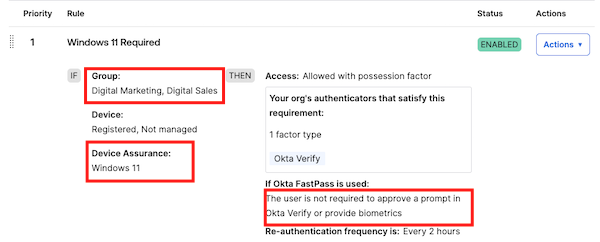
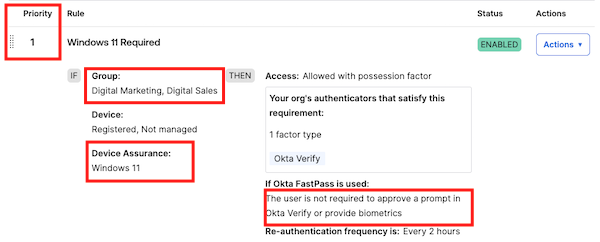
Feedback fixes for 1 - 3

Changed region(s): [[0.0, 0.0, 0.12, 0.2603]]

diff --git a/03-o365-integration.md b/03-o365-integration.md
@@ -89,11 +89,11 @@ In this section you will enable provisioning to Microsoft 365. This will include
 Follow these steps to enable provisioning:
 
 1. On the **Provisioning** tab, under **Settings**, select **To App**
-2. Click **Edit** to set the options for provisioning from Okta  to Office 365.
+2. Click **Edit** to set the options for provisioning from Okta to Office 365.
 
     ![alt_text](images/011/app_o365_to_app_600.png "w600")
 
-3. For **Office 365 Provisioning Type** select **Universal Sync**.
+3. For **Office 365 Provisioning Type**  select **Universal Sync**.
 4. For **Create Users**, select **Enable**.
 5. For **Update User Attributes**, select **Enable**.
 6. For **Deactivate Users**, select **Enable**.
@@ -111,31 +111,13 @@ When assigning users to an app, it's common to assign a group to an app and then
 
 When assigning a group to an app, you can specify values for app attributes. These will override any mapping for those attributes in the app definition. If you don't specify any value for an attribute, the mapping in the app definition will be applied instead.
 
-## Create a Group
-
-You will now create a group that will be assigned the Microsoft
-Office 365 app. Alternatively, you could assign the Office 365 app to existing groups.
-
-1. In the Admin Console select **Directory** > **Groups**.
-2. Click **Add group**.
-3. Set the **Name** to  **Office 365 Users**.
-4. Set the **Description** to **Office 365 Users**
-5. Click **Save**.
-
-    ![alt_text](images/009/image033.png "image_tooltip")
-
 ## Assign Group to Application
 
-You can assign a group to an app by either assigning the group within the app definition or by adding the app to the group definition. In this case you will add the app from the group definition.
+You can assign a group to an app by assigning the group within the app definition.
 
-1. In the Admin Console select **Directory** > **Groups**.
-2. Select the **Office 365 Users** group.
-3. Select the **Applications** tab, and then click **Assign applications**.
-4. Find the the **Microsoft Office 365** app and click **Assign**.
-
-    ![alt_text](images/009/image035_400.png "image_tooltip")
-
-5. In the list of Licenses, find and select **Microsoft 365 E5 Developer (Without Windows and Audio Conferencing) - Office 365 ProPlus**.
+1. On the **Assignments** tab, click **Assign**, and then select **Assign to Groups**.
+1. Find the the **App-Office365-ProPlus** group, and then click **Assign**.
+1. In the list of Licenses, find and select **Microsoft 365 E5 Developer (Without Windows and Audio Conferencing) - Office 365 ProPlus**.
 
     >**Hint:**Command-F (on Mac) or Win+F ( on Windows) will provide you a search bar into which you can type *proplus*
 
@@ -144,31 +126,31 @@ You can assign a group to an app by either assigning the group within the app de
 6. Scroll to the bottom of the page and click **Save and Go Back**.
 7. Click **Done**.
 
-The application is now assigned to the **O365 Users** group.
+The application is now assigned to the **App-Office365-ProPlus** group.
 
 ## Assign User to Group
 
-You will now assign the new employee to the *O365 Users* group. This will cause the user to be assigned the Microsoft Office 365 app which, in turn, will trigger provisioning of an account.
+You will now assign the new employee to the *App-Office365-ProPlus* group. This will cause the user to be assigned the Microsoft Office 365 app which, in turn, will trigger provisioning of an account.
 
 1. In the Admin Console select **Directory** > **Groups**.
-2. Select the **Office 365 Users** group.
-3. Select the **People** tab within the **Office 365Users** group.
+2. Select the **App-Office365-ProPlus** group.
+3. Select the **People** tab within the **App-Office365-ProPlus** group.
 4. Click **Assign people**.
 
-    ![alt_text](images/009/image040_600.png "image_tooltip")
+    ![alt_text](images/009/image040_600.png "assign people")
 
 5. Click **+** for the **New Employee** to assign them to the group.
 
-    ![alt_text](/images/011/group_assign_user_600.png "image_tooltip")
+    ![alt_text](/images/011/group_assign_user_600.png "assign user")
 
 The **+** icon will change to say **Assigned**.
 6. Click **Done**.
 
 The user is now assigned to the group and will be assigned to the Microsoft Office 365 app using the attribute mapping associated with the group assignment.
 
-## Test single sign-on
+## Verify SSO for New Employee to Office 365
 
-You can now test single sign-on to Microsoft 365 for your new employee.
+In your Virtual Desktop, test single sign-on to Microsoft Office 365 for your new employee.
 
 1. Open a new browser window that is not signed in to Okta or Microsoft.
 
@@ -176,14 +158,17 @@ You can now test single sign-on to Microsoft 365 for your new employee.
 
 3. Authenticate as the new employee. For example *<flynn.rider@04.mywiclab.com>*
 
+4. Click the **Microsoft Office 365 Word Online** app.
+
     ![alt_text](images/009/image043_600.png "image_tooltip")
 
-4. Click the **Microsoft Office 365 Word Online** app.
 5. Click **Yes** to stay signed in.
 6. In the top-right corner of the page, click the identity icon.
-7. Click **Sign out** to clear the session, and then close the browser.
+7. Click **Sign out** to clear the session.
 
     ![alt_text](images/009/image045_600.png "image_tooltip")
+
+8. Sign out the new employee from Okta
 
 ## Conclusion
 

diff --git a/04-security.md b/04-security.md
@@ -1,8 +1,8 @@
 In this lab, you will unlock the combined power of Okta Verify and FastPass. You will enable an experience where passwordless authentication becomes an integral part of an employee’s workday, boosting employee productivity without the common password pitfalls. Not only will you discover an enhanced security posture resistant to phishing threats, but you’ll also appreciate the inherent protection it offers, sometimes even against our own human errors.
 
-## Setup Okta Verify and Okta FastPass
+## Setup Okta FastPass on the Virtual Machine
 
->**Tip:** You may want paste your Okta tenant url into Notepad++ for easy copying and pasting in this lab.
+>**Tip:** You may want paste your Okta tenant url into Notepad for easy copying and pasting in this lab.
 
 ### Download Okta Verify on your Virtual Machine
 
@@ -14,7 +14,7 @@ In this lab, you will unlock the combined power of Okta Verify and FastPass. You
 
 ### Install Okta Verify on your Virtual Machine
 
-1. Open the downloaded **Okta Verify Setup** executable file.
+1. Open the **Okta Verify Setup** executable located in the Download folder shortcut on the desktop.
 2. In the Okta Verify installation window, select **I agree to the License terms and conditions**, and then click **Install**.
     Wait for confirmation saying that Okta Verify was successfully installed.
 3. Click **Finish**.
@@ -48,9 +48,9 @@ Upon successful authentication, the new employee account will be added to the Ok
 This will display the Okta Verify options.
 
 1. For **Okta FastPass** select **Show the "Sign in with Okta FastPass" button**.
-1. Scroll down and click **Save**.
 
-![alt_text](images/011/okta_verify_show_fastpass_button_r144_800.png "r 144 w 800")
+    ![alt_text](images/011/okta_verify_show_fastpass_button_600.png "Show FastPass button")
+1. Scroll down and click **Save**.
 
 ### Add a rule to the Standard Security Apps policy
 
@@ -77,6 +77,7 @@ This will display the Okta Verify options.
     |If Okta FastPass is used |**The user is not required to approve a prompt in Okta Verify or provide biometrics**|
 
 7. Click **Save**.
+8. Drag the **Okta FastPass** rule up to make **Priority 1** in the list of rules for the policy.
 
 ### Experience an Employee Passwordless Login
 
@@ -121,10 +122,9 @@ With device assurance policies you can check security-related device attributes 
     |:-----|:-----|
     |User must authenticate with:| **Possession factor**|
     |If Okta FastPass is used |**The user is not required to approve a prompt in Okta Verify or provide biometrics**|
-
 1. Click **Save**.
-
- ![alt_text](images/011/auth_policy_rule_windows11_saved_600.png "r 144 w 600")
+1. Drag the **Okta FastPass** rule up to make **Priority 1** in the list of rules for the policy.
+![alt_text](images/011/auth_policy_rule_windows11_saved_600.png "r 144 w 600")
 
 ### Assign High Security Apps Policy to Marketo
 
@@ -152,7 +152,9 @@ The lab Virtual Desktops are running Windows 10.
 
     ![alt_text](images/011/auth_policy_switch_marketo_600.png "r 144 w 600")
 
-Your new employee will now be able to sign in to Marketo from the Virtual Desktop.
+Your new employee will now be able to sign in to ""Marketo"" app from the Virtual Desktop.
+
+>**Note:** With the exception of BambooHR and Office 365, the other apps in this lab are Bookmark apps. Bookmark apps are used to direct users to a specific web page using Okta applications.
 
 ### Enable Okta ThreatInsight
 

diff --git a/02-onboard-employee.md b/02-onboard-employee.md
@@ -13,7 +13,7 @@ When adding a new employee to BambooHR, we ask that you use a unique name, such 
     >**Tip:** Check your **Office 365 Domain Name** in the launch panel; you will need this value for the new employee's email address.
     ![domain name](images/011/launch_O365_domain_240.png)
     The New Employee's **Work Email** domain needs to match your **Office 365 Domain Name**.
-2. Enter the following information to add a **New Employee**.
+1. Enter the following information to add a **New Employee**.
 
    |Attribute|Value|Example|
    |:-----|:-----|:----|
@@ -24,7 +24,8 @@ When adding a new employee to BambooHR, we ask that you use a unique name, such 
    |Job Title | **Director of Marketing**|*Director of Marketing*|
    |Department | **Marketing**|*Marketing*|
 
-5. Click **Save**.
+1. Click **Save**.
+1. Close the browser tab for **BambooHR**.
 
 ## Add the BambooHR App to Okta
 

diff --git a/01-introduction.md b/01-introduction.md
@@ -39,10 +39,11 @@ As part of the provisioning process for your Okta Workforce Identity Cloud tenan
 3. Copy this code block.
 ```iex (iwr https://raw.githubusercontent.com/keithledgerwood/WICLab-guide/dev/labvm/config.ps1).Content```
 
- |||
-   |:-----|:-----|
+4. In the Virtual Desktop, open Powershell, and then paste and run the command.
 
- 4. |![Image on the left](images/011/powershell_icon_25.png   "25")| Open Powershell within the Virtual Desktop, paste and run the command.|
+   |||
+   |:-----|:-----|
+   |![Image on the left](images/011/powershell_icon_25.png   "25")| |
 
 ## An Overview of the Environment
 
